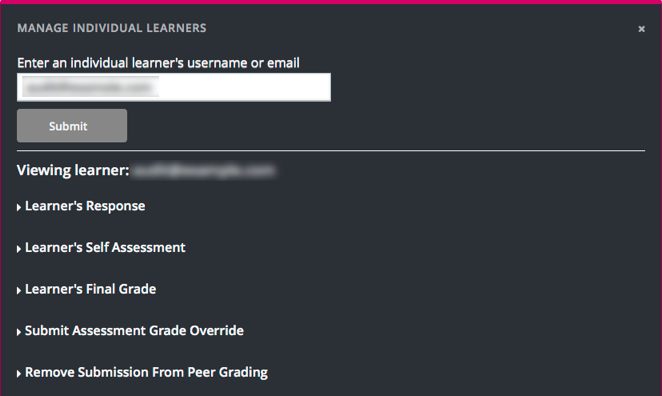
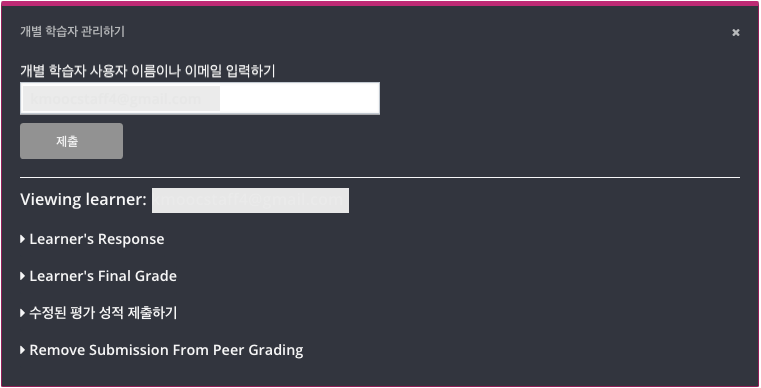
korean 0725-1

diff --git a/ko_kr/shared/course_features/teams/teams_setup.rst b/ko_kr/shared/course_features/teams/teams_setup.rst
@@ -103,7 +103,7 @@
 
 팀을 생성하기 위해.
 
-#. 학습 관리 시스템의 팀 페이지에서 탐색을 선택하고 팀을 만들 주제를 고른다.
+#. 학습 관리 시스템의 팀 페이지에서 탐색(Browse)을 선택하고 팀을 만들 주제를 고른다.
 
 #. 주제 내 팀 목록 하단에 이 주제에 새 팀 생성하기를 선택한다.
 
@@ -186,9 +186,9 @@
 #. 팀 페이지에서 검색을 선택해 모든 주제를 본다.
 #. 주제의 화살표 버튼을 선택해 주제 내 모든 팀을 본다.
 #. 편집할 팀을 선택한다. 팀을 찾기 위해 키워드 검색을 사용하거나 가장 최근 활동한 팀 순으로 정리한다.
-#. 팀의 조회 버튼을 클릭한다.
-#. 팀 편집하기를 선택한다.
-#. 교수자 도구 바에서 회원 관리를 선택한다.
+#. 팀의 보기 버튼을 클릭한다.
+#. 팀 편집하기(Edit Team)를 선택한다.
+#. 교수자 도구(INSTRUCTOR TOOLS) 바에서 회원 관리(Edit Membership)를 선택한다.
 
    .. image:: ../../../../shared/images/Teams_InstructorToolsEditMembers.png
      :width: 600
@@ -226,8 +226,8 @@
 #. 팀 페이지에서 검색을 선택해 모든 주제를 본다.
 #. 주제의 화살표 버튼을 선택해 주제 내 모든 팀을 본다.
 #. 삭제할 팀을 선택한다. 팀을 찾기 위해 키워드 검색을 사용하거나 가장 최근 활동한 팀 순으로 정리한다.
-#. 삭제할 팀의 **조회** 버튼을 클릭하고 **팀 편집하기(Edit Team)** 를 선택한다.
-#. **교수자 도구** 바에서 팀 **삭제하기** 를 선택한다.
+#. 삭제할 팀의 **보기** 버튼을 클릭하고 **팀 편집하기(Edit Team)** 를 선택한다.
+#. **교수자 도구(INSTRUCTOR TOOLS)** 바에서 팀 **삭제하기(Delete Team)** 를 선택한다.
 
    .. image:: ../../../../shared/images/Teams_InstructorToolsDeleteTeam.png
      :width: 600

diff --git a/ko_kr/shared/subsections/open_response_assessments/Manage_ORA_Assignment.rst b/ko_kr/shared/subsections/open_response_assessments/Manage_ORA_Assignment.rst
@@ -113,7 +113,7 @@
 
 #. 강좌의 개방형 응답 평가 과제에 들어간다.
 
-#. 문제 하단으로 내려가 개별 학습자 관리를 선택한다.
+#. 문제 하단으로 내려가 개별 학습자 관리하기를 선택한다.
 
 #. 학습자 사용자 이름이나 이메일을 선택하고 **제출** 을 클릭한다.
 
@@ -152,13 +152,13 @@
 
 #. 강좌에서 개방형 응답 평가 과제에 들어가 삭제할 답변을 확인한다.
 
-#. 문제 하단으로 내려가 **개별 학습자 관리** 를 선택한다.
+#. 문제 하단으로 내려가 **개별 학습자 관리하기** 를 선택한다.
 
 #. 학습자 사용자 이름이나 이메일을 입력하고 **제출** 을 클릭한다.
 
    개별 학습자 관리 다이얼로그에서 평가 단계별로 답변에 대한 작업을 수행할 수 있다.
 
-#. **상호 평가에서 답변 제거** 를 선택한다.
+#. **상호 평가에서 답변 제거(Remove Submission From Peer Grading)** 를 선택한다.
 
 #. 코멘트에 삭제 사유를 입력한다. 이 사유는 학습자가 개방형 응답 평가 문제에서 본인 답변을 확인했을 때 보여지게 된다.
 
@@ -166,7 +166,7 @@
     :alt: Dialog allowing comments to be entered when removing a learner
        submission.
 
-6. **답변 삭제** 를 선택한다.
+#. **답변 삭제(Remove submission)** 를 선택한다.
 
    상호 평가에서 부적절한 답변은 삭제된다. 삭제된 답변은 우수 답변 목록에서도 제거된다.
 
